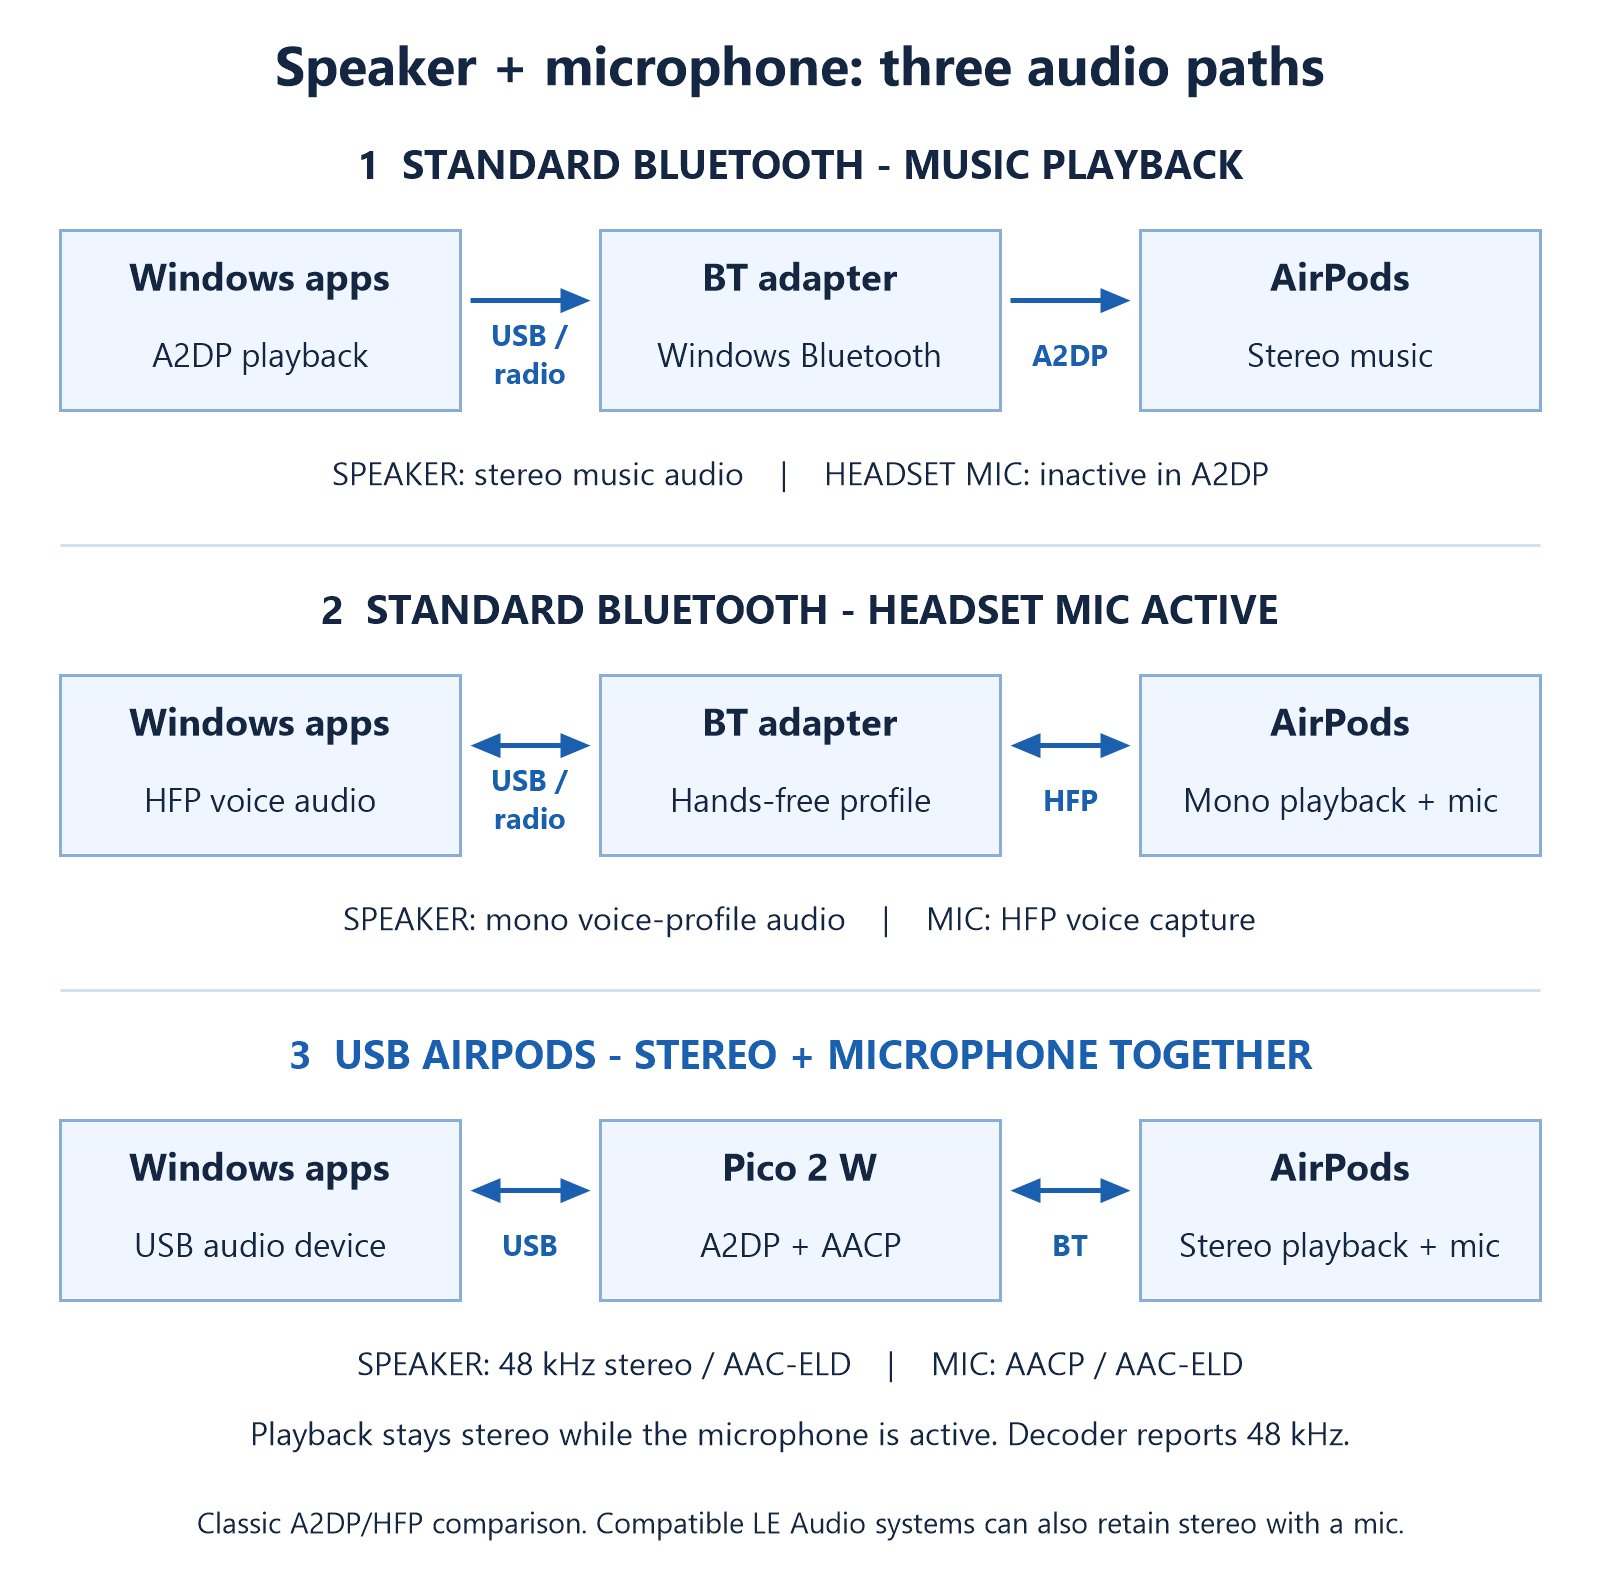
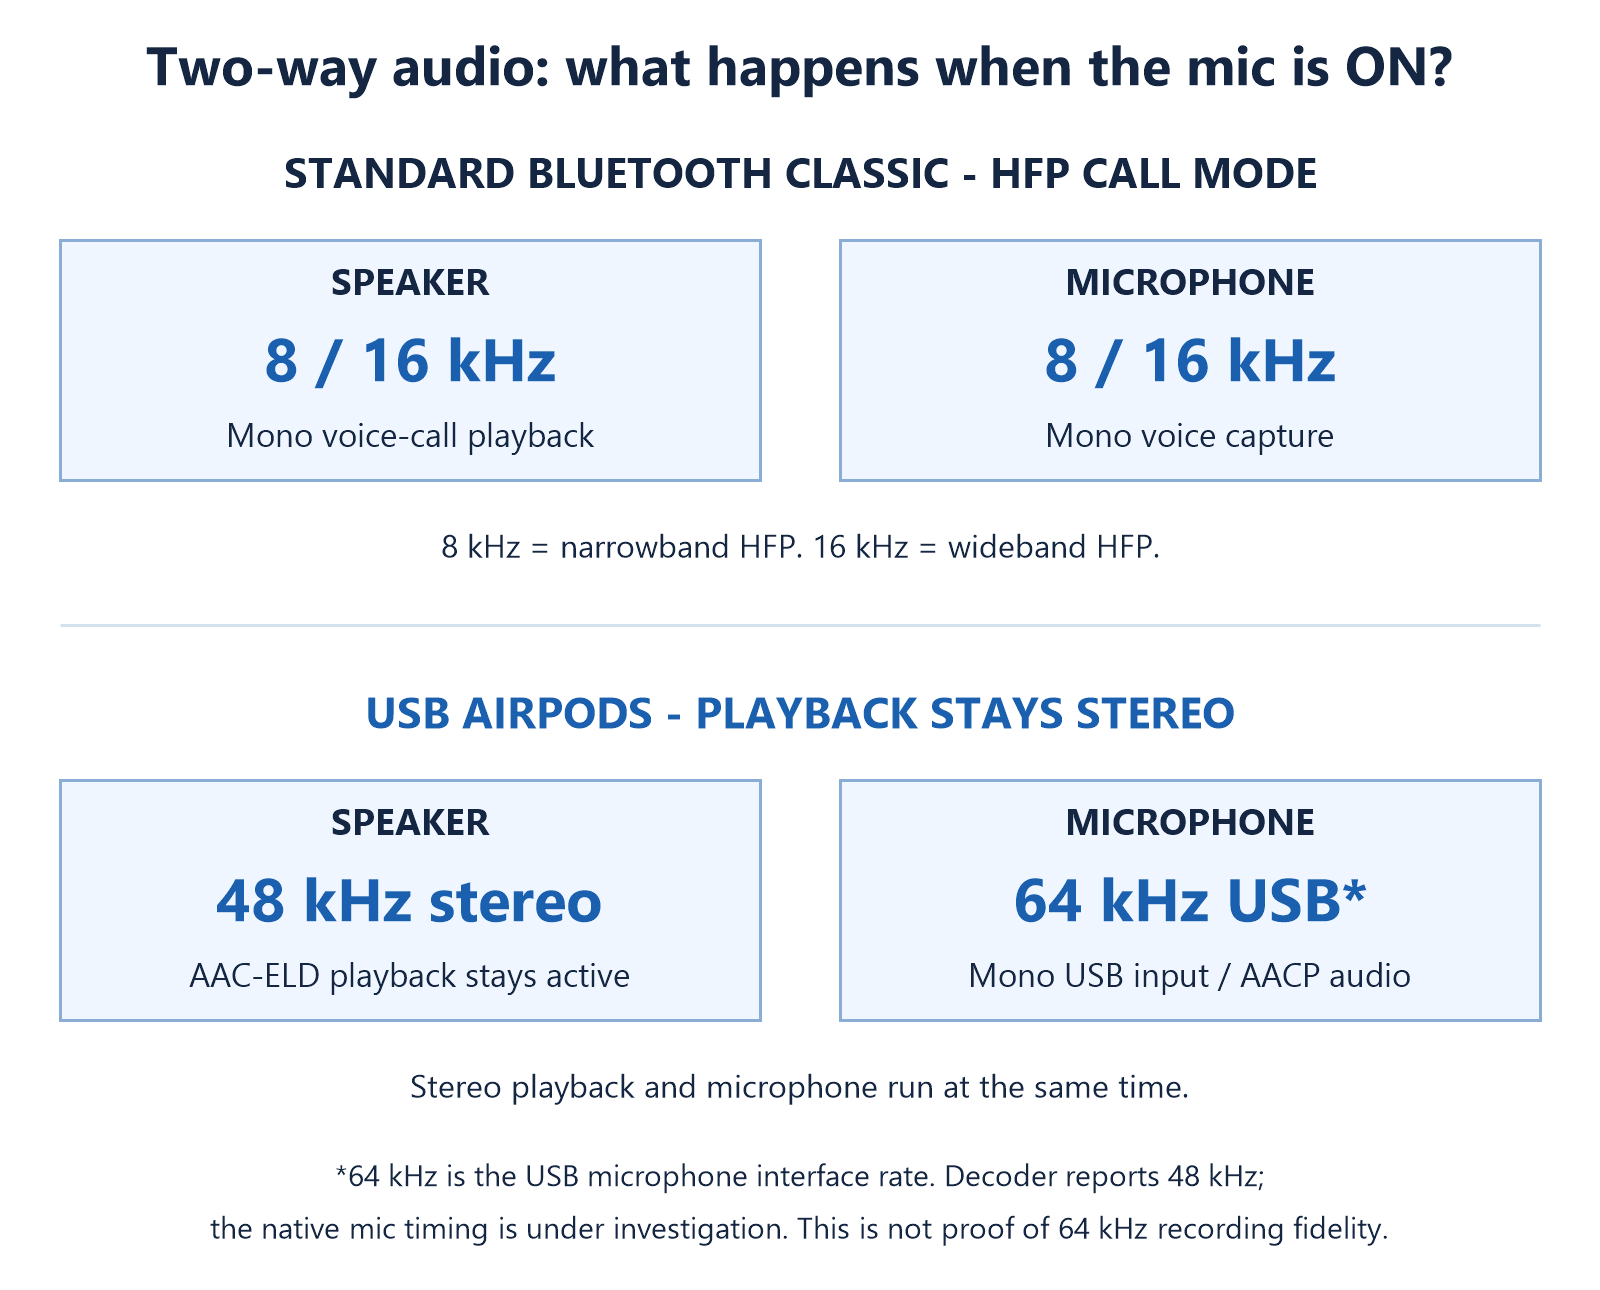
Simplify two-way audio sampling-rate comparison

diff --git a/README.md b/README.md
@@ -37,17 +37,14 @@ The companion reads cached battery information and sends ANC requests through th
 
 ## Standard Bluetooth adapter vs. USB AirPods
 
-This comparison covers the standard **Windows Bluetooth Classic A2DP/HFP** path. It does not describe every wireless headset or Bluetooth LE Audio configuration.
+**With the microphone on, standard Bluetooth Classic switches to voice-call audio. USB AirPods keeps stereo playback running.**
 
-![Speaker and microphone paths: standard Bluetooth music mode, HFP voice mode, and simultaneous USB AirPods stereo plus microphone](docs/images/bluetooth-comparison.png)
+![Two-way audio comparison: Bluetooth HFP speaker and microphone at 8 or 16 kHz mono versus USB AirPods 48 kHz stereo playback and a 64 kHz USB microphone interface](docs/images/bluetooth-comparison.png)
 
-The diagram separates the two standard Classic Bluetooth operating modes. Music playback uses stereo A2DP; opening the headset microphone switches playback and capture to the HFP mono voice profile. This project keeps 48 kHz stereo AAC-ELD playback running while receiving the microphone through a separate AACP/AAC-ELD path. The microphone decoder reports 48 kHz, but its raw protocol timing remains under investigation; this is not a measured microphone-quality, latency, or range benchmark.
+- **Standard Bluetooth Classic (HFP):** both speaker and microphone use mono call audio: **8 kHz narrowband** or **16 kHz wideband**, depending on the negotiated codec. This is the familiar switch from stereo music to voice-call sound when the headset microphone opens. These rates are documented by [Microsoft](https://learn.microsoft.com/en-us/windows-hardware/drivers/bluetooth/bluetooth-classic-audio).
+- **USB AirPods:** playback stays at **48 kHz stereo** while the microphone uses a separate AACP/AAC-ELD path. The firmware presents a **64 kHz mono USB microphone interface** to Windows (`USB_MIC_SAMPLE_RATE` in `src/tinyusb/usb_descriptors.h`). The decoder reports **48 kHz** and native microphone timing is still under investigation, so the USB interface rate must not be read as proven 64 kHz recording fidelity.
 
-Windows Classic Audio switches to HFP when the headset microphone is opened; A2DP and HFP are alternative operating paths in the upper diagram, not simultaneous stereo-plus-microphone streams. See Microsoft's [Bluetooth Classic Audio documentation](https://learn.microsoft.com/en-us/windows-hardware/drivers/bluetooth/bluetooth-classic-audio).
-
-**LE Audio is a separate case:** compatible Windows 11 PCs and headsets can support stereo while the microphone is active. The Classic Audio limitation above should not be generalized to those systems; see Microsoft's [LE Audio quality settings](https://support.microsoft.com/en-us/windows/hardware/bluetooth/configuring-bluetooth-le-audio-quality-settings-on-windows-11).
-
-This project still uses Bluetooth between the Pico and AirPods. It moves the Bluetooth stack and audio handling onto the Pico; it does not replace that wireless link with USB or claim lower latency, better range, or universal headset compatibility.
+This comparison is about Bluetooth Classic HFP, not all Bluetooth devices. Compatible [Windows LE Audio systems](https://support.microsoft.com/en-us/windows/hardware/bluetooth/configuring-bluetooth-le-audio-quality-settings-on-windows-11) can also retain stereo with an active mic. Sampling rates alone are not a measured sound-quality score; no microphone-quality, latency, or range benchmark is claimed.
 
 ## Download and run
 
